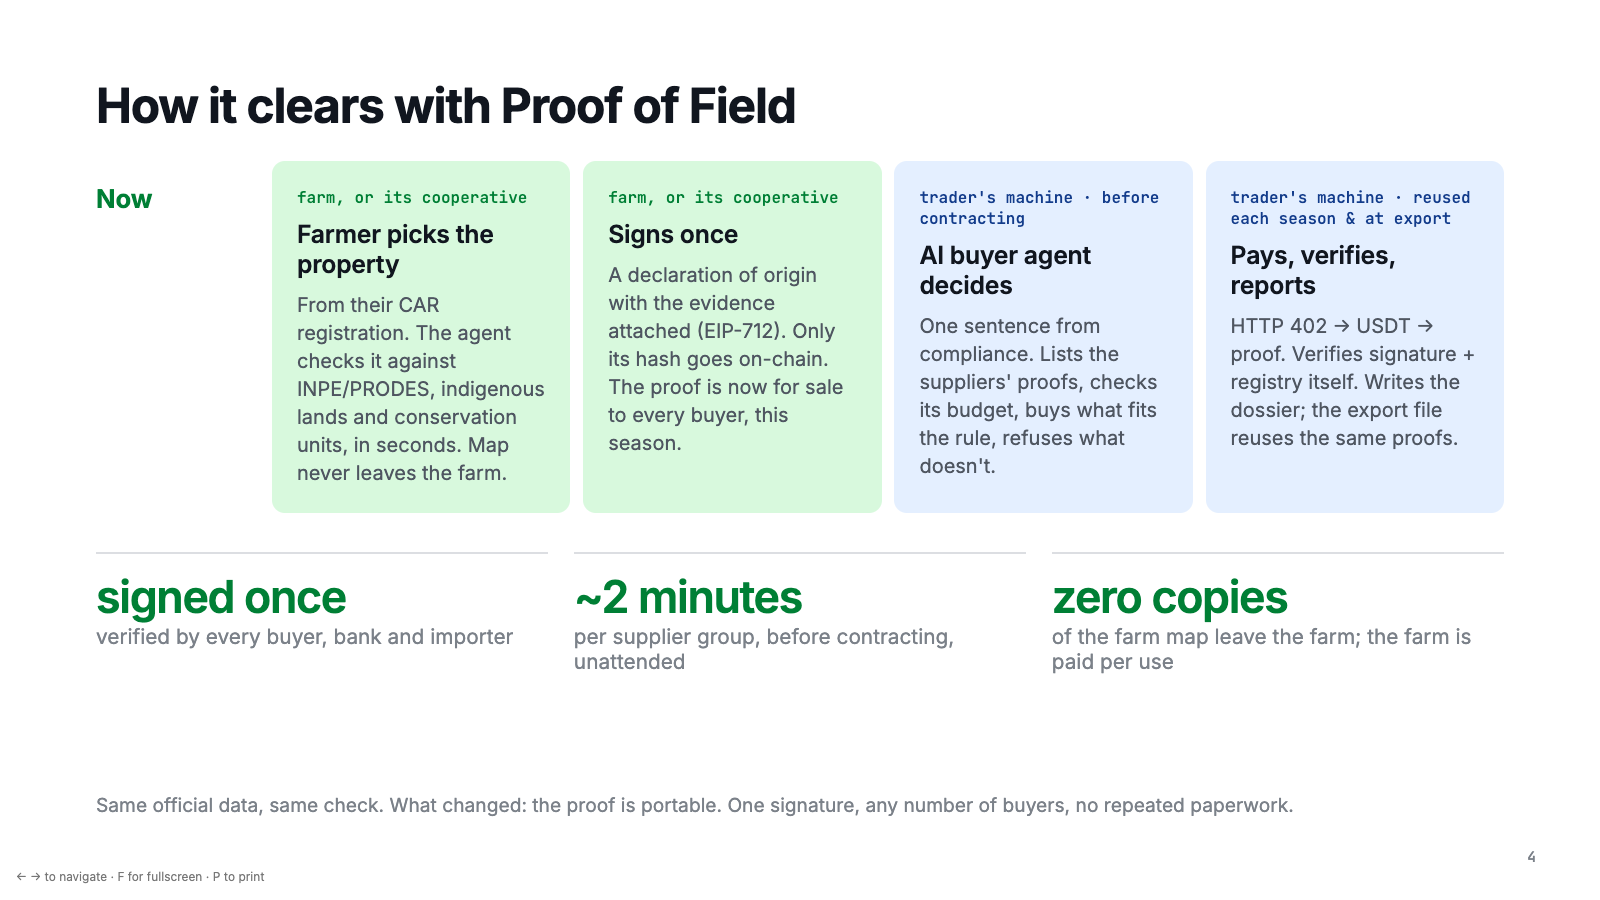
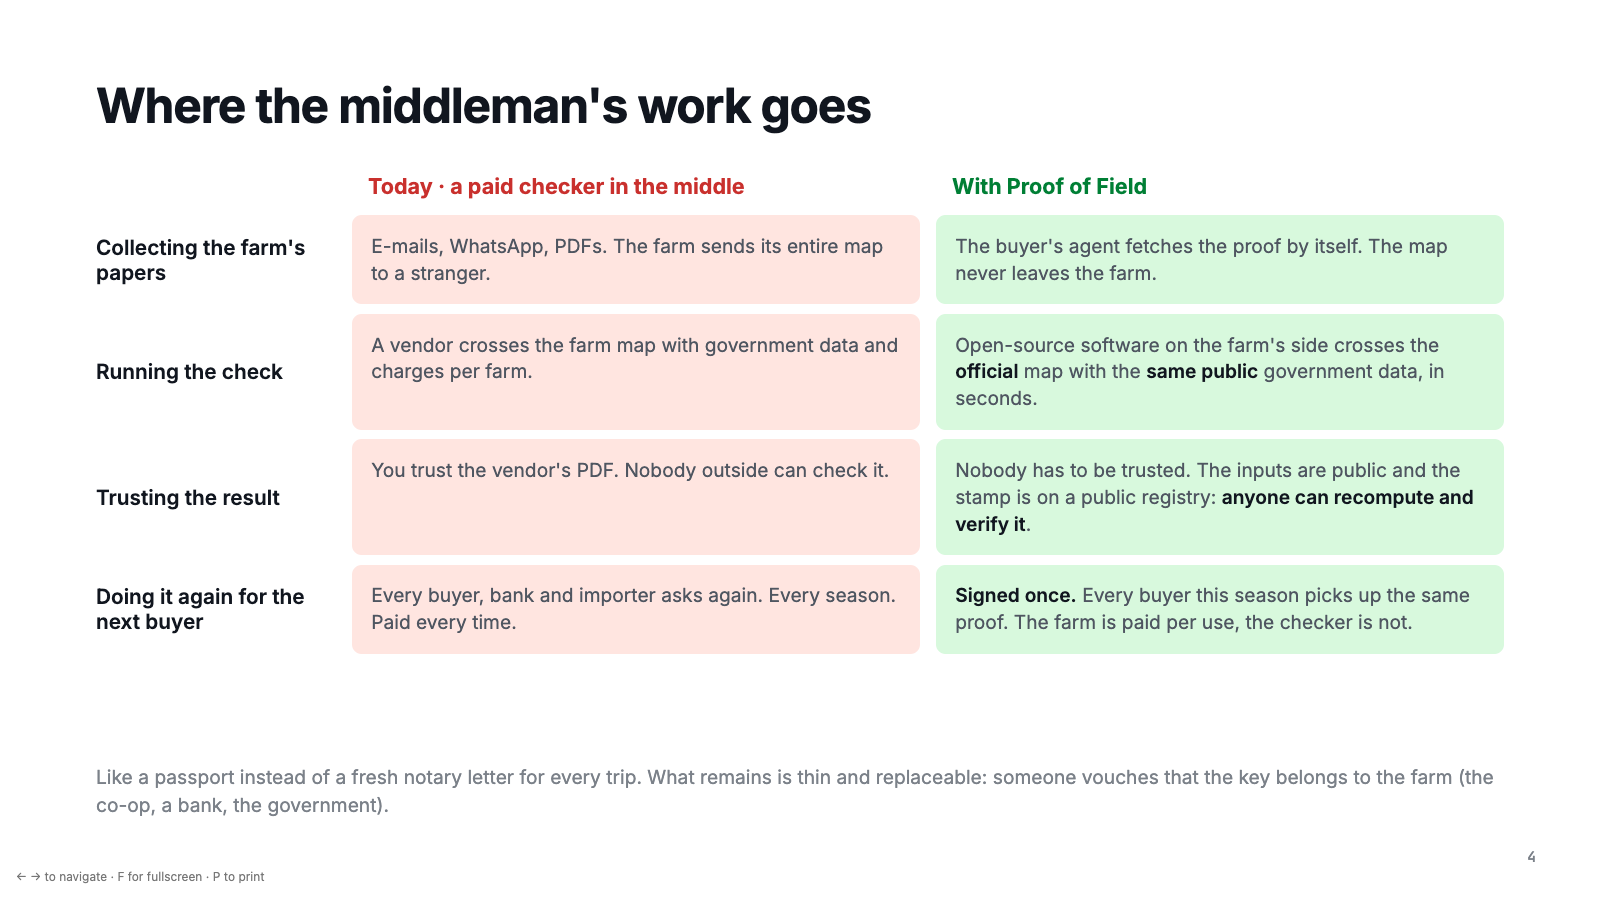
Slide 4: where the middleman's work goes (collect, check, trust, repeat)

diff --git a/docs/slides/index.html b/docs/slides/index.html
@@ -53,6 +53,14 @@
   .stat div { border-top: 2px solid var(--line); padding-top: 1vw; }
   .stat b { display: block; font-size: 2.8vw; letter-spacing: -0.03em; } .stat.bad b { color: var(--bad); } .stat.ok b { color: var(--ok); }
   .stat span { font-size: 1.3vw; color: var(--ink-3); }
+  /* comparison */
+  .cmp { display: grid; grid-template-columns: 15vw 1fr 1fr; gap: 0.6vw 1vw; margin-top: 0.4vw; }
+  .cmp-h { font-weight: 700; font-size: 1.35vw; padding: 0.4vw 1vw; }
+  .cmp-h.bad { color: var(--bad); } .cmp-h.ok { color: var(--ok); }
+  .cmp-l { font-weight: 600; font-size: 1.3vw; color: var(--ink); padding: 1.1vw 0; display: flex; align-items: center; }
+  .cmp-c { font-size: 1.2vw; line-height: 1.4; color: var(--ink-2); padding: 1.1vw 1.2vw; border-radius: 0.6vw; }
+  .cmp-c.bad { background: var(--bad-soft); } .cmp-c.ok { background: var(--ok-soft); }
+  .cmp-c b { color: var(--ink); }
   /* layers */
   .layers { display: grid; grid-template-columns: 1fr 1fr; gap: 2vw; flex: 1; }
   .layer { border-radius: 0.8vw; padding: 1.8vw 2vw; display: flex; flex-direction: column; gap: 1vw; }
@@ -118,22 +126,15 @@
 
 <!-- 4 -->
 <section class="slide">
-  <h2>How it clears with Proof of Field</h2>
-  <div class="tl">
-    <div class="lbl ok">Now</div>
-    <div class="chain">
-      <div class="node ok"><i>farm, or its cooperative</i><b>Farmer picks the property</b><p>From their CAR registration. The agent checks it against INPE/PRODES, indigenous lands and conservation units, in seconds. Map never leaves the farm.</p></div>
-      <div class="node ok"><i>farm, or its cooperative</i><b>Signs once</b><p>A declaration of origin with the evidence attached (EIP-712). Only its hash goes on-chain. The proof is now for sale to every buyer, this season.</p></div>
-      <div class="node ai"><i>trader's machine · before contracting</i><b>AI buyer agent decides</b><p>One sentence from compliance. Lists the suppliers' proofs, checks its budget, buys what fits the rule, refuses what doesn't.</p></div>
-      <div class="node ai"><i>trader's machine · reused each season &amp; at export</i><b>Pays, verifies, reports</b><p>HTTP 402 → USDT → proof. Verifies signature + registry itself. Writes the dossier; the export file reuses the same proofs.</p></div>
-    </div>
+  <h2>Where the middleman's work goes</h2>
+  <div class="cmp">
+    <div class="cmp-h"></div><div class="cmp-h bad">Today · a paid checker in the middle</div><div class="cmp-h ok">With Proof of Field</div>
+    <div class="cmp-l">Collecting the farm's papers</div><div class="cmp-c bad">E-mails, WhatsApp, PDFs. The farm sends its entire map to a stranger.</div><div class="cmp-c ok">The buyer's agent fetches the proof by itself. The map never leaves the farm.</div>
+    <div class="cmp-l">Running the check</div><div class="cmp-c bad">A vendor crosses the farm map with government data and charges per farm.</div><div class="cmp-c ok">Open-source software on the farm's side crosses the <b>official</b> map with the <b>same public</b> government data, in seconds.</div>
+    <div class="cmp-l">Trusting the result</div><div class="cmp-c bad">You trust the vendor's PDF. Nobody outside can check it.</div><div class="cmp-c ok">Nobody has to be trusted. The inputs are public and the stamp is on a public registry: <b>anyone can recompute and verify it</b>.</div>
+    <div class="cmp-l">Doing it again for the next buyer</div><div class="cmp-c bad">Every buyer, bank and importer asks again. Every season. Paid every time.</div><div class="cmp-c ok"><b>Signed once.</b> Every buyer this season picks up the same proof. The farm is paid per use, the checker is not.</div>
   </div>
-  <div class="stat ok">
-    <div><b>signed once</b><span>verified by every buyer, bank and importer</span></div>
-    <div><b>~2 minutes</b><span>per supplier group, before contracting, unattended</span></div>
-    <div><b>zero copies</b><span>of the farm map leave the farm; the farm is paid per use</span></div>
-  </div>
-  <p class="note">Same official data, same check. What changed: the proof is portable. One signature, any number of buyers, no repeated paperwork.</p>
+  <p class="note">Like a passport instead of a fresh notary letter for every trip. What remains is thin and replaceable: someone vouches that the key belongs to the farm (the co-op, a bank, the government).</p>
   <span class="n">4</span>
 </section>
 

diff --git a/docs/PITCH.md b/docs/PITCH.md
@@ -14,7 +14,7 @@
 
 **Slide 3 (0:22).** "Today it takes weeks. The farmer e-mails the entire farm map to a stranger, the trader pays a vendor per farm, and the result is a PDF nobody outside can verify. Then the next buyer asks again."
 
-**Slide 4 (0:37).** "We make the proof portable. Each farm's computer runs the official checks, deforestation, indigenous lands, conservation units, signs the result once, and puts it up for sale. Before contracting, the buyer's AI agent picks it up, verifies it on-chain, and pays the farm per use. Same proof again next season, and again in the export file. Minutes, no humans, and no farm map ever leaves a farm."
+**Slide 4 (0:37).** "The checker in the middle does four things: collects the papers, runs the check, is the one you trust, and does it again for every buyer. Agents collect. Open software checks public government data. Anyone can recompute and verify the stamp, so nobody has to be trusted. And it's signed once, reused by every buyer. That's how the middleman goes away."
 
 **Slide 5 (0:48).** "No marketplace. The farm's key is its login and its properties come from SICAR. The trader asks only the suppliers it already has contracts with; their agent address is registered at onboarding like a bank account. Unknown keys are refused."
 
@@ -64,6 +64,7 @@ Fallback if HSK is down: run everything with `NETWORK=anvil` (identical, no expl
 - **"What if the farmer lies in other ways?"** He can't change the INPE data, and he can't change the polygon without changing the hash. What he could do is sign with a key that isn't the property owner's. Binding the farmer key to the CAR owner (a KYC'd attestation from the registry or a bank) is the natural next step.
 - **"Is 5 USDT a real price? Will traders really pay farmers?"** Today traders pay a due-diligence vendor per farm and the farmer works for free. We are not selling "traders pay farmers" as the reason to adopt; the reason is a portable proof that clears a shipment in minutes and that banks and importers accept without redoing. The payment is the mechanism that lets two programs transact; who pays and how much is a business decision. Some traders already pay premiums for verified origin, so it is not alien to the sector.
 - **"Don't traders verify before buying, not after?"** Yes, and that's when the agent runs: at supplier onboarding, before any contract, and again each season because INPE's map changes yearly. The export dossier then reuses the same proofs; nobody is consulted again. That's what "portable" buys you: one signature, three moments of use.
+- **"How does this remove the middleman? That's all the work."** The middleman does four things. Collecting the farm's papers: the buyer's agent fetches the proof itself. Running the check: it's open-source software crossing the official CAR polygon with the same public government data the vendor uses. Being the trusted party: not needed, because the inputs are public and the stamp is on a public registry, so anyone can recompute and verify. Repeating it per buyer, per season: gone, signed once and reused. What remains is thin: someone vouches that the key belongs to the farm (co-op, bank, gov.br), and that role is replaceable.
 - **"What exactly does the farmer sign?"** A declaration of origin with the evidence attached: "this registered property is my supply source, and on this date it shows X ha deforested and Y ha in protected areas according to INPE, FUNAI and ICMBio." That is the supplier declaration EUDR already requires, signed once instead of e-mailed to every buyer.
 - **"Farmers won't run software."** Large farms will; small ones won't. The farmer agent can be hosted by the cooperative for hundreds of members, with the farmer only authorizing from a phone. That's why cooperatives are first in the adoption path.
 - **"Farmers don't want USDT."** Correct. The mechanism is the same with a BRL stablecoin or an automatic off-ramp; we used a mock USDT because that's what the testnet has. Not solved today, and I won't pretend it is.
